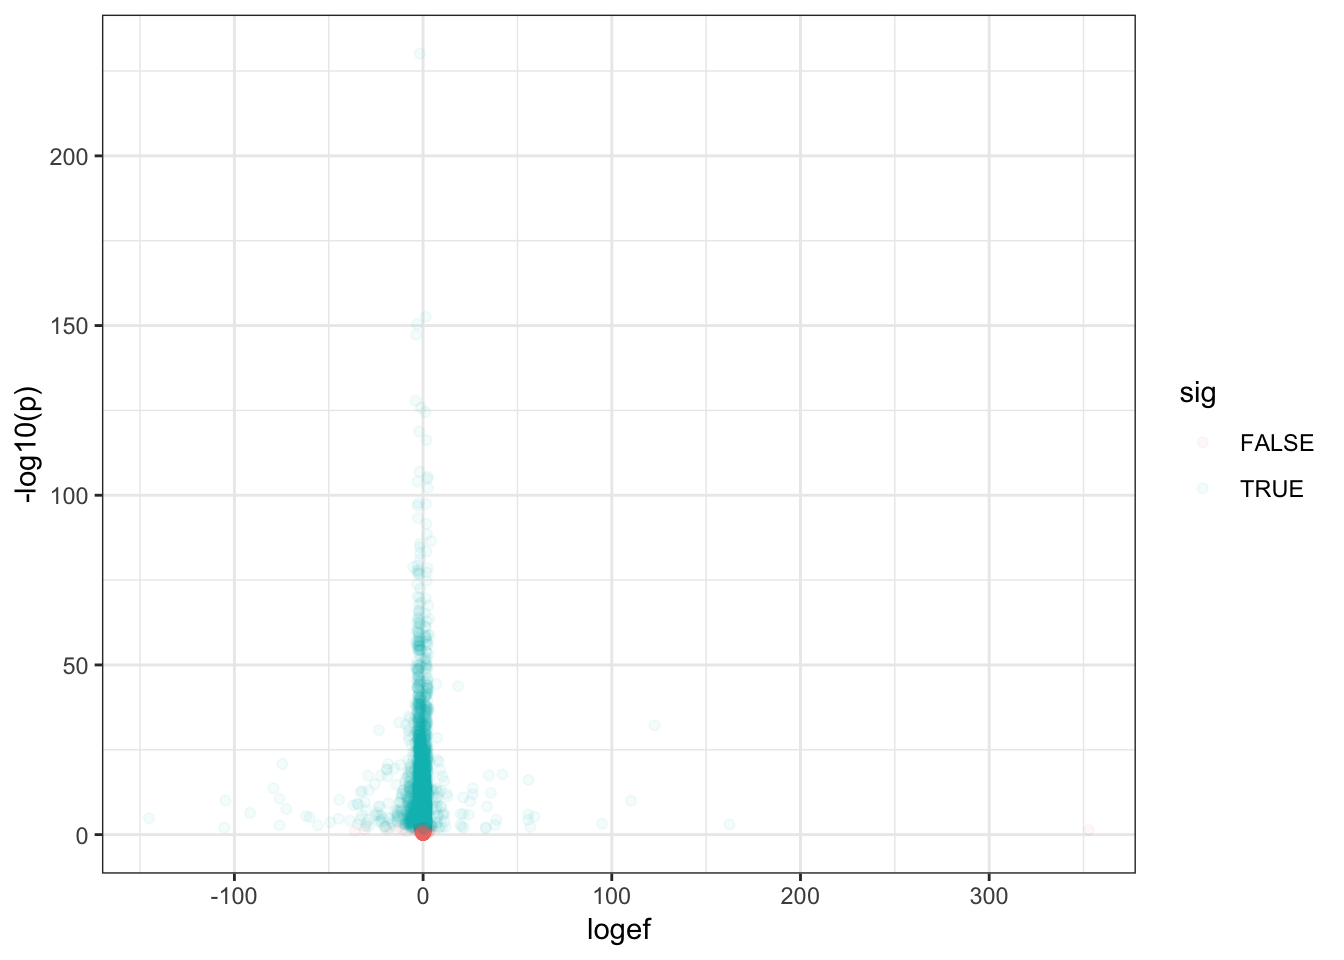
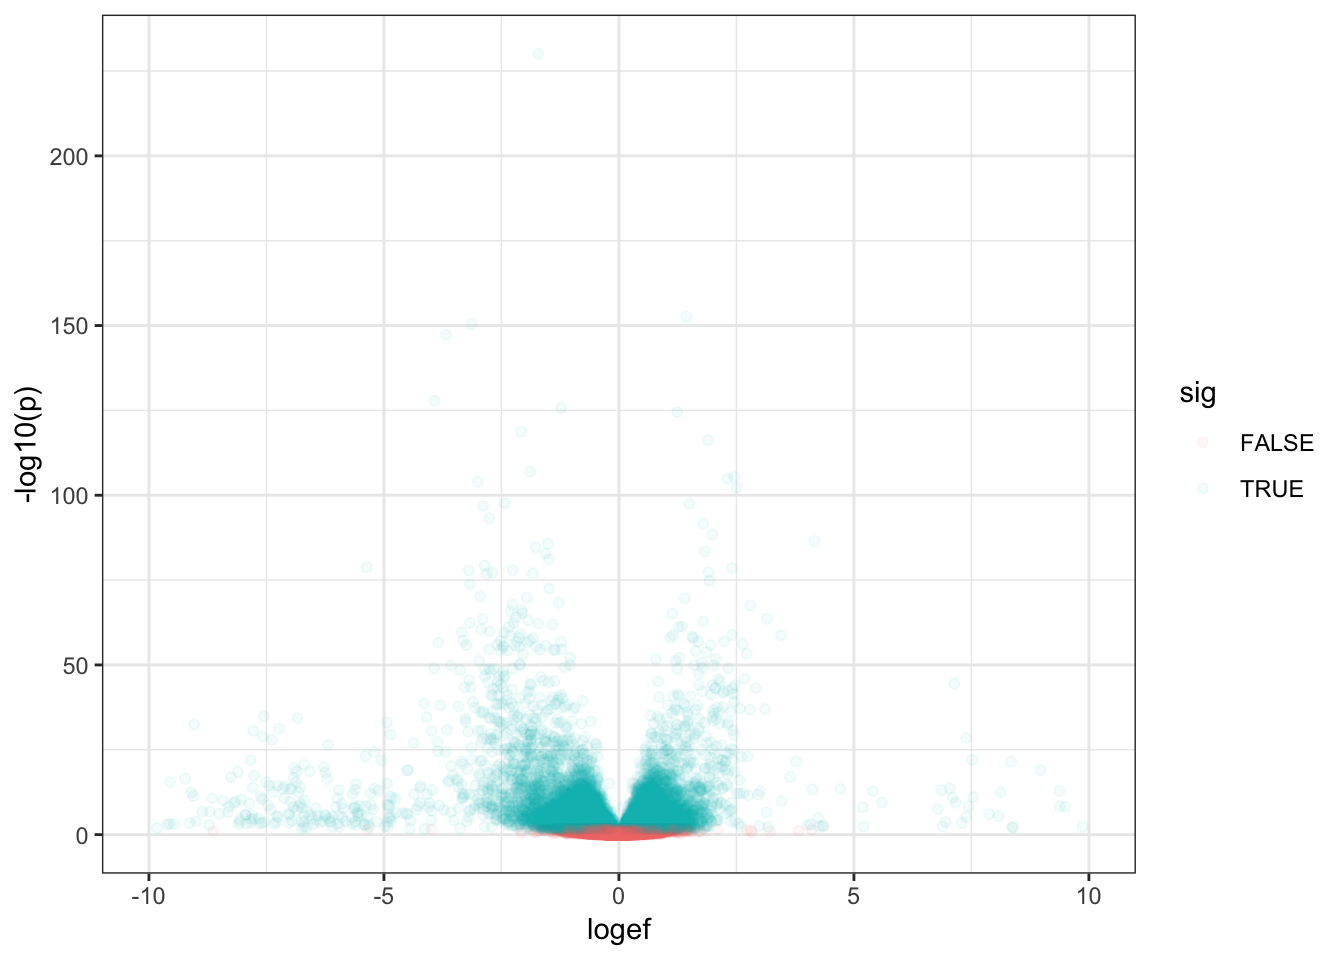
update site

diff --git a/docs/20190625.ds_blood_sf3b1.html b/docs/20190625.ds_blood_sf3b1.html
@@ -527,10 +527,10 @@ This reproducible <a href="http://rmarkdown.rstudio.com">R Markdown</a> analysis
 <div class="panel panel-default">
 <div class="panel-heading">
 <p class="panel-title">
-<a data-toggle="collapse" data-parent="#workflowr-checks" href="#strongRepositoryversionstrongahrefhttpsgithubcombfairkunsnaptronanalysistree68cd7b55a303e78787217e285321fda9e548c758targetblank68cd7b5a"> <span class="glyphicon glyphicon-ok text-success" aria-hidden="true"></span> <strong>Repository version:</strong> <a href="https://github.com/bfairkun/snaptron-analysis/tree/68cd7b55a303e78787217e285321fda9e548c758" target="_blank">68cd7b5</a> </a>
+<a data-toggle="collapse" data-parent="#workflowr-checks" href="#strongRepositoryversionstrongahrefhttpsgithubcombfairkunsnaptronanalysistreee10b2f8a2887f1ab7954752bf8045f87be011078targetblanke10b2f8a"> <span class="glyphicon glyphicon-ok text-success" aria-hidden="true"></span> <strong>Repository version:</strong> <a href="https://github.com/bfairkun/snaptron-analysis/tree/e10b2f8a2887f1ab7954752bf8045f87be011078" target="_blank">e10b2f8</a> </a>
 </p>
 </div>
[2 lines of base64/hex data omitted]
 <div class="panel-body">
 <p>
 Great! You are using Git for version control. Tracking code development and connecting the code version to the results is critical for reproducibility. The version displayed above was the version of the Git repository at the time these results were generated. <br><br> Note that you need to be careful to ensure that all relevant files for the analysis have been committed to Git prior to generating the results (you can use <code>wflow_publish</code> or <code>wflow_git_commit</code>). workflowr only checks the R Markdown file, but you know if there are other scripts or data files that it depends on. Below is the status of the Git repository when the results were generated:
@@ -539,12 +539,9 @@ Great! You are using Git for version control. Tracking code development and conn
 Ignored files:
     Ignored:    .Rhistory
     Ignored:    .Rproj.user/
-    Ignored:    analysis/figure/
 
 Unstaged changes:
-    Modified:   _workflowr.yml
     Modified:   analysis/20190625.ds_blood_sf3b1.Rmd
-    Modified:   analysis/index.Rmd
 
 </code></pre>
 <p>
@@ -583,6 +580,40 @@ Message
 </tr>
 </thead>
 <tbody>
+<tr>
+<td>
+Rmd
+</td>
+<td>
+<a href="https://github.com/bfairkun/snaptron-analysis/blob/e10b2f8a2887f1ab7954752bf8045f87be011078/analysis/20190625.ds_blood_sf3b1.Rmd" target="_blank">e10b2f8</a>
+</td>
+<td>
+Benjmain Fair
+</td>
+<td>
+2019-06-25
+</td>
+<td>
+update site
+</td>
+</tr>
+<tr>
+<td>
+html
+</td>
+<td>
+<a href="https://rawcdn.githack.com/bfairkun/snaptron-analysis/e10b2f8a2887f1ab7954752bf8045f87be011078/docs/20190625.ds_blood_sf3b1.html" target="_blank">e10b2f8</a>
+</td>
+<td>
+Benjmain Fair
+</td>
+<td>
+2019-06-25
+</td>
+<td>
+update site
+</td>
+</tr>
 <tr>
 <td>
 Rmd
@@ -763,7 +794,44 @@ leafcutter.merged %&gt;%
     geom_histogram() +
     theme_bw()</code></pre>
 <p><img src="figure/20190625.ds_blood_sf3b1.Rmd/unnamed-chunk-2-1.png" width="672" style="display: block; margin: auto;" /></p>
-<pre class="r"><code>#volcano plot of cluster-pvalues and largest within-cluster-delta-psi
+<p>
+<button type="button" class="btn btn-default btn-xs btn-workflowr btn-workflowr-fig" data-toggle="collapse" data-target="#fig-unnamed-chunk-2-1">
+Past versions of unnamed-chunk-2-1.png
+</button>
+</p>
+<div id="fig-unnamed-chunk-2-1" class="collapse">
+<div class="table-responsive">
+<table class="table table-condensed table-hover">
+<thead>
+<tr>
+<th>
+Version
+</th>
+<th>
+Author
+</th>
+<th>
+Date
+</th>
+</tr>
+</thead>
+<tbody>
+<tr>
+<td>
+<a href="https://github.com/bfairkun/snaptron-analysis/blob/e10b2f8a2887f1ab7954752bf8045f87be011078/docs/figure/20190625.ds_blood_sf3b1.Rmd/unnamed-chunk-2-1.png" target="_blank">e10b2f8</a>
+</td>
+<td>
+Benjmain Fair
+</td>
+<td>
+2019-06-25
+</td>
+</tr>
+</tbody>
+</table>
+</div>
+</div>
+<pre class="r"><code>#volcano plot of cluster-pvalues and largest within-cluster-log effect size
 leafcutter.merged %&gt;%
   mutate(abs.logef = abs(logef)) %&gt;%
   group_by(cluster) %&gt;%
@@ -771,8 +839,46 @@ leafcutter.merged %&gt;%
   mutate(sig=p.adjust&lt;0.05) %&gt;%
   ggplot(aes(x=logef, y=-log10(p), color=sig)) +
     geom_point(alpha=0.05) +
+    scale_x_continuous(limits=c(-10,10)) +
     theme_bw()</code></pre>
 <p><img src="figure/20190625.ds_blood_sf3b1.Rmd/unnamed-chunk-3-1.png" width="672" style="display: block; margin: auto;" /></p>
+<p>
+<button type="button" class="btn btn-default btn-xs btn-workflowr btn-workflowr-fig" data-toggle="collapse" data-target="#fig-unnamed-chunk-3-1">
+Past versions of unnamed-chunk-3-1.png
+</button>
+</p>
+<div id="fig-unnamed-chunk-3-1" class="collapse">
+<div class="table-responsive">
+<table class="table table-condensed table-hover">
+<thead>
+<tr>
+<th>
+Version
+</th>
+<th>
+Author
+</th>
+<th>
+Date
+</th>
+</tr>
+</thead>
+<tbody>
+<tr>
+<td>
+<a href="https://github.com/bfairkun/snaptron-analysis/blob/e10b2f8a2887f1ab7954752bf8045f87be011078/docs/figure/20190625.ds_blood_sf3b1.Rmd/unnamed-chunk-3-1.png" target="_blank">e10b2f8</a>
+</td>
+<td>
+Benjmain Fair
+</td>
+<td>
+2019-06-25
+</td>
+</tr>
+</tbody>
+</table>
+</div>
+</div>
 <p>That doesn’t make too much sense, maybe delta-PSI is the better effect size metric to make a sensible volcano plot…</p>
 <pre class="r"><code># volcano plot of cluster-pvalues and largest within-cluster-delta-psi
 leafcutter.merged %&gt;%
@@ -784,6 +890,43 @@ leafcutter.merged %&gt;%
     geom_point(alpha=0.05) +
     theme_bw()</code></pre>
 <p><img src="figure/20190625.ds_blood_sf3b1.Rmd/unnamed-chunk-4-1.png" width="672" style="display: block; margin: auto;" /></p>
+<p>
+<button type="button" class="btn btn-default btn-xs btn-workflowr btn-workflowr-fig" data-toggle="collapse" data-target="#fig-unnamed-chunk-4-1">
+Past versions of unnamed-chunk-4-1.png
+</button>
+</p>
+<div id="fig-unnamed-chunk-4-1" class="collapse">
+<div class="table-responsive">
+<table class="table table-condensed table-hover">
+<thead>
+<tr>
+<th>
+Version
+</th>
+<th>
+Author
+</th>
+<th>
+Date
+</th>
+</tr>
+</thead>
+<tbody>
+<tr>
+<td>
+<a href="https://github.com/bfairkun/snaptron-analysis/blob/e10b2f8a2887f1ab7954752bf8045f87be011078/docs/figure/20190625.ds_blood_sf3b1.Rmd/unnamed-chunk-4-1.png" target="_blank">e10b2f8</a>
+</td>
+<td>
+Benjmain Fair
+</td>
+<td>
+2019-06-25
+</td>
+</tr>
+</tbody>
+</table>
+</div>
+</div>
 <p>Now let’s check that the junctions identified in Darman et al are enriched for small P-values</p>
 <pre class="r"><code>DarmanJunctionsList &lt;- read.table(&#39;../data/other_snakemake_data/DarmanDiffJunctions.LiftedToHg38.bed&#39;, header=F)
 
@@ -810,6 +953,43 @@ ggplot(NotInDarman, aes(color=&quot;NotInDarman&quot;, y=-log10(sort(p)), x=-log
   theme(legend.position=&quot;bottom&quot;) +
   theme(legend.title=element_blank())</code></pre>
 <p><img src="figure/20190625.ds_blood_sf3b1.Rmd/unnamed-chunk-5-1.png" width="672" style="display: block; margin: auto;" /></p>
+<p>
+<button type="button" class="btn btn-default btn-xs btn-workflowr btn-workflowr-fig" data-toggle="collapse" data-target="#fig-unnamed-chunk-5-1">
+Past versions of unnamed-chunk-5-1.png
+</button>
+</p>
+<div id="fig-unnamed-chunk-5-1" class="collapse">
+<div class="table-responsive">
+<table class="table table-condensed table-hover">
+<thead>
+<tr>
+<th>
+Version
+</th>
+<th>
+Author
+</th>
+<th>
+Date
+</th>
+</tr>
+</thead>
+<tbody>
+<tr>
+<td>
+<a href="https://github.com/bfairkun/snaptron-analysis/blob/e10b2f8a2887f1ab7954752bf8045f87be011078/docs/figure/20190625.ds_blood_sf3b1.Rmd/unnamed-chunk-5-1.png" target="_blank">e10b2f8</a>
+</td>
+<td>
+Benjmain Fair
+</td>
+<td>
+2019-06-25
+</td>
+</tr>
+</tbody>
+</table>
+</div>
+</div>
 <p>PCA and heatmap of differentially spliced introns</p>
 <pre class="r"><code>#Get top intron within each cluster (by delta-psi) then subset the top 1000 clusters by Pval. This is the top1000 introns that will be used to plot heatmap of PSI
 Top1000Introns &lt;- leafcutter.merged %&gt;%
@@ -831,12 +1011,86 @@ HeatmapGroupLabels &lt;- plyr::mapvalues(colnames(Heatmap), from=Groups$V1, to=G
 
 heatmap.2(Heatmap, col=colorRampPalette(c(&quot;blue&quot;, &quot;white&quot;, &quot;red&quot;))(n = 299), dendrogram=&quot;column&quot;, trace=&quot;none&quot;, labRow=&quot;&quot;, key.title=&quot;PSI-Zscore&quot;, ColSideColors=HeatmapGroupLabels)</code></pre>
 <p><img src="figure/20190625.ds_blood_sf3b1.Rmd/unnamed-chunk-6-1.png" width="672" style="display: block; margin: auto;" /></p>
+<p>
+<button type="button" class="btn btn-default btn-xs btn-workflowr btn-workflowr-fig" data-toggle="collapse" data-target="#fig-unnamed-chunk-6-1">
+Past versions of unnamed-chunk-6-1.png
+</button>
+</p>
+<div id="fig-unnamed-chunk-6-1" class="collapse">
+<div class="table-responsive">
+<table class="table table-condensed table-hover">
+<thead>
+<tr>
+<th>
+Version
+</th>
+<th>
+Author
+</th>
+<th>
+Date
+</th>
+</tr>
+</thead>
+<tbody>
+<tr>
+<td>
+<a href="https://github.com/bfairkun/snaptron-analysis/blob/e10b2f8a2887f1ab7954752bf8045f87be011078/docs/figure/20190625.ds_blood_sf3b1.Rmd/unnamed-chunk-6-1.png" target="_blank">e10b2f8</a>
+</td>
+<td>
+Benjmain Fair
+</td>
+<td>
+2019-06-25
+</td>
+</tr>
+</tbody>
+</table>
+</div>
+</div>
 <pre class="r"><code>#Heatmap of top leafcutter identified introns
 Heatmap &lt;- PSI_Table[Top1000Introns,] %&gt;%
   t() %&gt;% scale(scale=F) %&gt;% t() %&gt;%
   as.data.frame() %&gt;% drop_na() %&gt;% as.matrix()
 heatmap.2(Heatmap, col=colorRampPalette(c(&quot;blue&quot;, &quot;white&quot;, &quot;red&quot;))(n = 299), dendrogram=&quot;column&quot;, trace=&quot;none&quot;, labRow=&quot;&quot;, key.title=&quot;PSI-Zscore&quot;, ColSideColors=HeatmapGroupLabels)</code></pre>
 <p><img src="figure/20190625.ds_blood_sf3b1.Rmd/unnamed-chunk-6-2.png" width="672" style="display: block; margin: auto;" /></p>
+<p>
+<button type="button" class="btn btn-default btn-xs btn-workflowr btn-workflowr-fig" data-toggle="collapse" data-target="#fig-unnamed-chunk-6-2">
+Past versions of unnamed-chunk-6-2.png
+</button>
+</p>
+<div id="fig-unnamed-chunk-6-2" class="collapse">
+<div class="table-responsive">
+<table class="table table-condensed table-hover">
+<thead>
+<tr>
+<th>
+Version
+</th>
+<th>
+Author
+</th>
+<th>
+Date
+</th>
+</tr>
+</thead>
+<tbody>
+<tr>
+<td>
+<a href="https://github.com/bfairkun/snaptron-analysis/blob/e10b2f8a2887f1ab7954752bf8045f87be011078/docs/figure/20190625.ds_blood_sf3b1.Rmd/unnamed-chunk-6-2.png" target="_blank">e10b2f8</a>
+</td>
+<td>
+Benjmain Fair
+</td>
+<td>
+2019-06-25
+</td>
+</tr>
+</tbody>
+</table>
+</div>
+</div>
 <br>
 <p>
 <button type="button" class="btn btn-default btn-workflowr btn-workflowr-sessioninfo" data-toggle="collapse" data-target="#workflowr-sessioninfo" style="display: block;">
